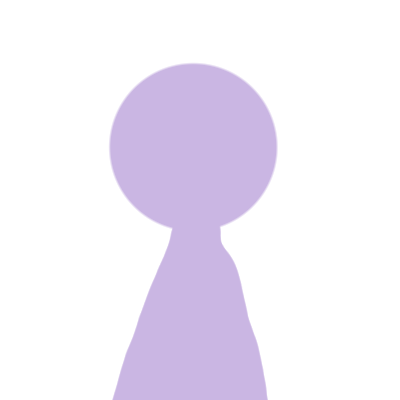
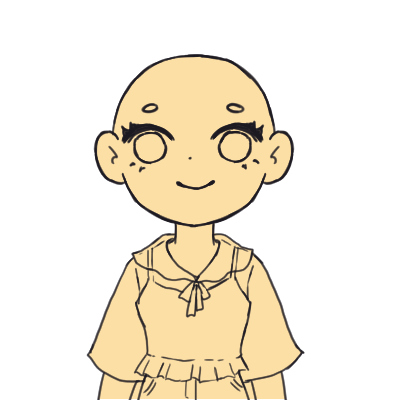
edit code

diff --git a/mayaBarberUI.py b/mayaBarberUI.py
@@ -5,8 +5,11 @@ import maya.OpenMayaUI as omui
 import os
 import importlib
 import maya.cmds as cmds
+import random
 
 from . import mayaBarberUtill as mbarUtil
+importlib.reload(mbarUtil)
+
 from . import mayaBarberCusColor as mbarCusCL
 
 class MayaBarberDialog(QtWidgets.QDialog):
@@ -16,10 +19,8 @@ class MayaBarberDialog(QtWidgets.QDialog):
 		self.resize(500, 650)
 		self.setWindowTitle('Maya Barber ✂✨')
 		self.money = 0
-		
-		self.PREVIEW_IMAGE_PATH = "C:/Users/nadia/Documents/maya/2026/scripts/mayaBarber/Asset/Customer"
-		self.HAIR_STYLES_PATH = "C:/Users/nadia/Documents/maya/2026/scripts/mayaBarber/Asset/Hair"
-
+		self.is_first_customer = True
+				
 		self.main_layout = QtWidgets.QVBoxLayout(self)
 		self.setLayout(self.main_layout)
 		self.setStyleSheet(
@@ -61,23 +62,20 @@ class MayaBarberDialog(QtWidgets.QDialog):
 			'''
 			)
 		
-		customer_pixmap = QtGui.QPixmap(f"{self.PREVIEW_IMAGE_PATH}/custommer1.png")
-		customer_pixmap = customer_pixmap.scaled(
-			QtCore.QSize(400, 400),
-			QtCore.Qt.KeepAspectRatio,
-			QtCore.Qt.SmoothTransformation
-		)
-
-		self.customer_base_item = QtWidgets.QGraphicsPixmapItem(customer_pixmap)
+		self.customer_base_item = QtWidgets.QGraphicsPixmapItem()
 
 
-		hair_pixmap = QtGui.QPixmap(f"{self.HAIR_STYLES_PATH}/bob.png")
-		hair_pixmap = hair_pixmap.scaled(
-			QtCore.QSize(400, 400),
-			QtCore.Qt.KeepAspectRatio,
-			QtCore.Qt.SmoothTransformation
-		)
-		self.hair_item = QtWidgets.QGraphicsPixmapItem(hair_pixmap)
+		initial_hair_path = mbarUtil.get_hair_style_path("bob.png")
+		if initial_hair_path:
+			hair_pixmap = QtGui.QPixmap(initial_hair_path)
+			hair_pixmap = hair_pixmap.scaled(
+				QtCore.QSize(400, 400),
+				QtCore.Qt.KeepAspectRatio,
+				QtCore.Qt.SmoothTransformation
+			)
+			self.hair_item = QtWidgets.QGraphicsPixmapItem(hair_pixmap)
+		else:
+			self.hair_item = QtWidgets.QGraphicsPixmapItem()
 
 		self.customer_base_item.setZValue(0)
 		self.hair_item.setZValue(1)
@@ -92,6 +90,7 @@ class MayaBarberDialog(QtWidgets.QDialog):
 
 		button_grid_layout = QtWidgets.QGridLayout()
 		self.cut_button = QtWidgets.QPushButton('Cut ✂')
+		self.cut_button.clicked.connect(self.cut_hair)
 
 		self.color_button = QtWidgets.QPushButton('Color 🎨')
 		self.color_button.clicked.connect(self.colorPick)
@@ -100,6 +99,7 @@ class MayaBarberDialog(QtWidgets.QDialog):
 		self.comb_button.clicked.connect(self.combMenu)
 
 		self.reset_button = QtWidgets.QPushButton('Reset ✨')
+		self.reset_button.clicked.connect(self.reset_hair)
 
 		button_grid_layout.addWidget(self.cut_button, 0, 0)
 		button_grid_layout.addWidget(self.color_button, 0, 1)
@@ -109,7 +109,10 @@ class MayaBarberDialog(QtWidgets.QDialog):
 
 
 		self.nextCustomer_button = QtWidgets.QPushButton('Next Customer 😊')
+		self.nextCustomer_button.clicked.connect(self.load_next_customer)
 		self.main_layout.addWidget(self.nextCustomer_button)
+
+		self.load_next_customer()
 
 
 		button_style = '''
@@ -138,10 +141,11 @@ class MayaBarberDialog(QtWidgets.QDialog):
 			self.hair_item.setGraphicsEffect(colorize_effect)
 
 	def combMenu(self):
-		menu = QtWidgets.QMenu(self)
-		menu.setStyleSheet(
-			"""
+			menu = QtWidgets.QMenu(self)
+			menu.setStyleSheet(
+				"""
 				QMenu{ 
+
 					background-color: #5D5443;
 					border: 1px solid #7D715C;
 					color: #E0D6C4;
@@ -154,19 +158,55 @@ class MayaBarberDialog(QtWidgets.QDialog):
 					background-color: #7D715C;
 					color: #FFFFFF;
 					}
-			"""
+			""" 
 			)
-		action_bob = menu.addAction("Blunt bob")
-		
-		action_ponytail = menu.addAction("Ponytail")
-		
-		action_bowl = menu.addAction("Bowl cut")
 
-		action_bun = menu.addAction("Bun")
+			hair_styles_map = mbarUtil.HAIR_STYLES_MAP
 
-		menu.exec_(QtGui.QCursor.pos())
-
+			for display_name, file_name in hair_styles_map.items():
+				action = menu.addAction(display_name)
+				action.triggered.connect(lambda checked=False, fn=file_name: self.change_hair_style(fn))
 			
+			menu.exec_(QtGui.QCursor.pos())
+
+	def load_next_customer(self):
+			if not self.is_first_customer:
+				self.money += 500
+				self.money_label.setText(f"Money: ${self.money}")
+			image_path = mbarUtil.get_random_customer_path()
+
+			if image_path:
+				customer_pixmap = QtGui.QPixmap(image_path)
+				customer_pixmap = customer_pixmap.scaled(
+					QtCore.QSize(400, 400),
+					QtCore.Qt.KeepAspectRatio,
+					QtCore.Qt.SmoothTransformation
+				)
+				self.customer_base_item.setPixmap(customer_pixmap)
+
+			self.is_first_customer = False
+
+	def change_hair_style(self, hair_filename):
+			image_path = mbarUtil.get_hair_style_path(hair_filename)
+
+			if image_path:
+				self.hair_item.show()
+				
+				hair_pixmap = QtGui.QPixmap(image_path)
+				hair_pixmap = hair_pixmap.scaled(
+					QtCore.QSize(400, 400),
+					QtCore.Qt.KeepAspectRatio,
+					QtCore.Qt.SmoothTransformation
+				)
+				self.hair_item.setPixmap(hair_pixmap)
+				self.hair_item.setGraphicsEffect(None)
+
+	def cut_hair(self):
+		self.hair_item.hide()
+
+	def reset_hair(self):
+		self.change_hair_style("bob.png")
+		
 def run():
 	global ui
 	try:

diff --git a/mayaBarberUtill.py b/mayaBarberUtill.py
@@ -2,22 +2,39 @@ import maya.cmds as cmds
 import os
 import random
 
-ASSET_PATH = "C:/Users/nadia/Documents/maya/2026/scripts/mayaBarber/Asset" 
-PREVIEW_PATH = os.path.join(ASSET_PATH, "C:/Users/nadia/Documents/maya/2026/scripts/mayaBarber/Asset/Customer/custommer1.png") # <<< เปลี่ยนเป็นโฟลเดอร์รูปภาพ
+# --- Path ทั้งหมดถูกกำหนดแบบ Dynamic ทำให้ย้ายโฟลเดอร์ได้ง่าย ---
+SCRIPT_DIRECTORY = os.path.dirname(__file__)
+ASSET_PATH = os.path.join(SCRIPT_DIRECTORY, "Asset")
+CUSTOMER_IMAGE_PATH = os.path.join(ASSET_PATH, "Customer")
+HAIR_STYLES_PATH = os.path.join(ASSET_PATH, "Hair")
 
-def next_customer():
+# --- ข้อมูลทรงผม ---
+HAIR_STYLES_MAP = {
+	"Blunt bob": "bob.png",
+	"Ponytail": "ponytail.png",   # แนะนำให้ใช้ตัวพิมพ์เล็กทั้งหมดเพื่อลดความผิดพลาด
+	"Bowl cut": "bowlcut.png",    # เช่น "ponyTail.png" -> "ponytail.png"
+	"Bun": "bun.png"
+}
 
-	if not os.path.exists(PREVIEW_PATH):
-		print(f"Error: Preview folder not found at {PREVIEW_PATH}")
+def get_random_customer_path():
+	"""สุ่มหา Path ของรูปลูกค้า 1 คนจากในโฟลเดอร์"""
+	try:
+		customer_files = [f for f in os.listdir(CUSTOMER_IMAGE_PATH) if f.endswith('.png')]
+		if not customer_files:
+			cmds.warning("Could not find any customer images!")
+			return None
+			
+		random_file = random.choice(customer_files)
+		return os.path.join(CUSTOMER_IMAGE_PATH, random_file)
+		
+	except FileNotFoundError:
+		cmds.warning(f"Customer directory not found: {CUSTOMER_IMAGE_PATH}")
 		return None
 
-	customer_files = [f for f in os.listdir(PREVIEW_PATH) if f.lower().endswith(".png")]
-	
-	if not customer_files:
-		print("ไม่เจอไฟล์รูปภาพลูกค้าในโฟลเดอร์ customer_previews!")
+def get_hair_style_path(hair_filename):
+	"""สร้าง Path แบบเต็มสำหรับไฟล์ทรงผม"""
+	path = os.path.join(HAIR_STYLES_PATH, hair_filename)
+	if not os.path.exists(path):
+		cmds.warning(f"Hair style file not found: {path}")
 		return None
-
-	chosen_customer_file = random.choice(customer_files)
-	print(f"Selected customer image: {chosen_customer_file}")
-	
-	return chosen_customer_file
+	return path
